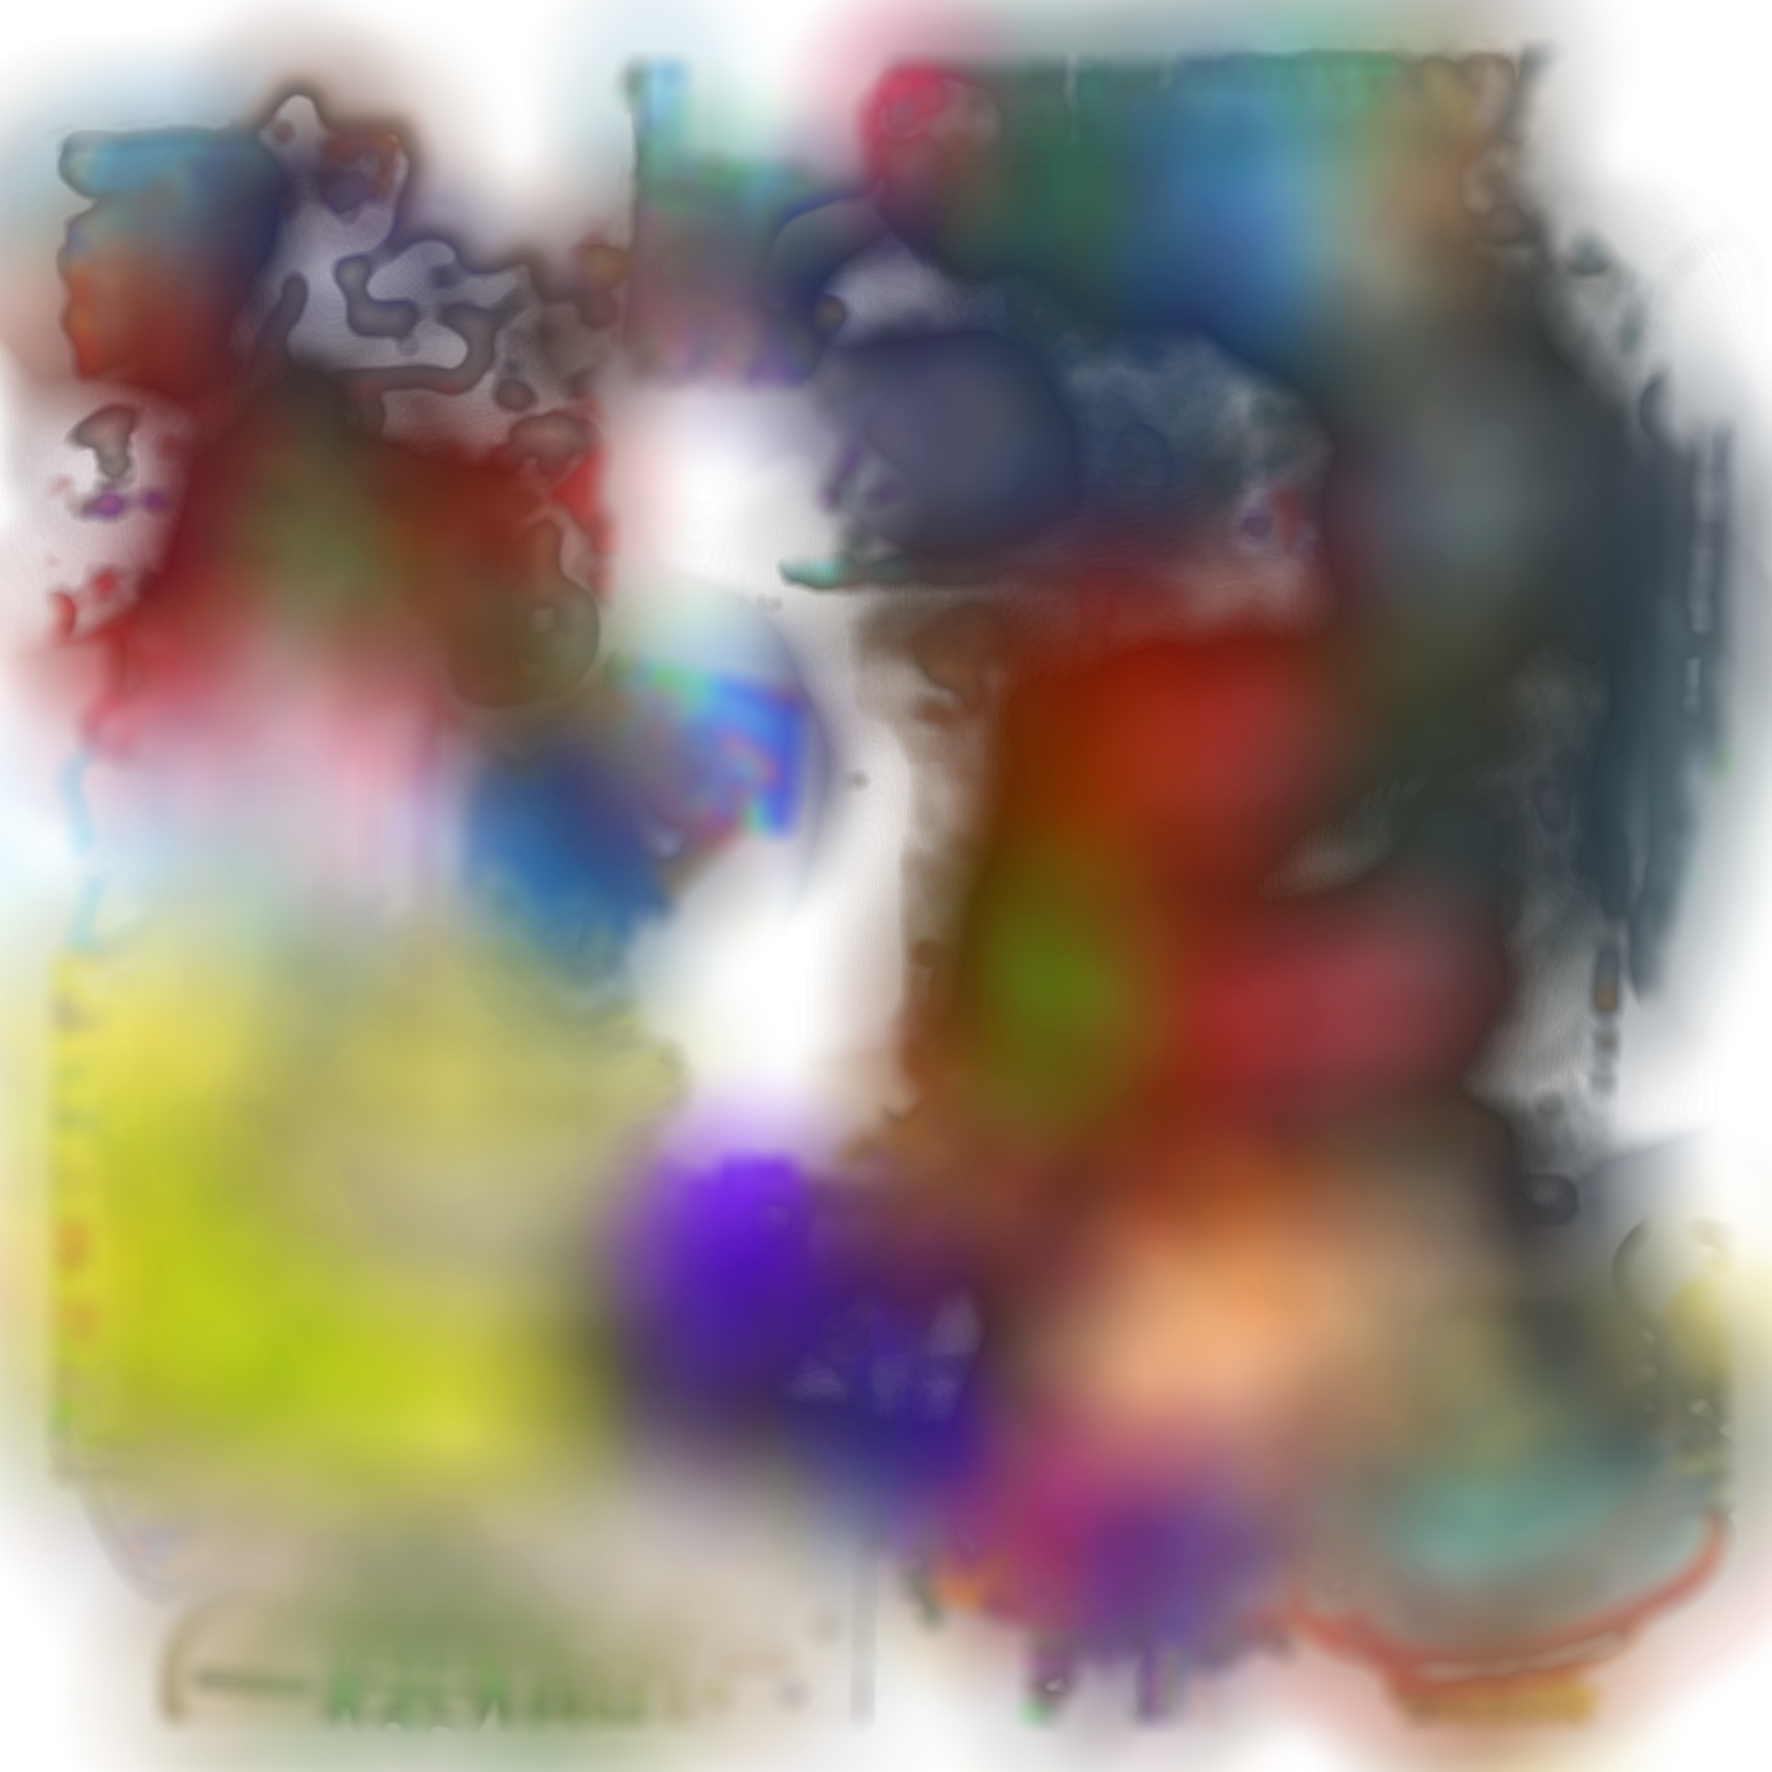
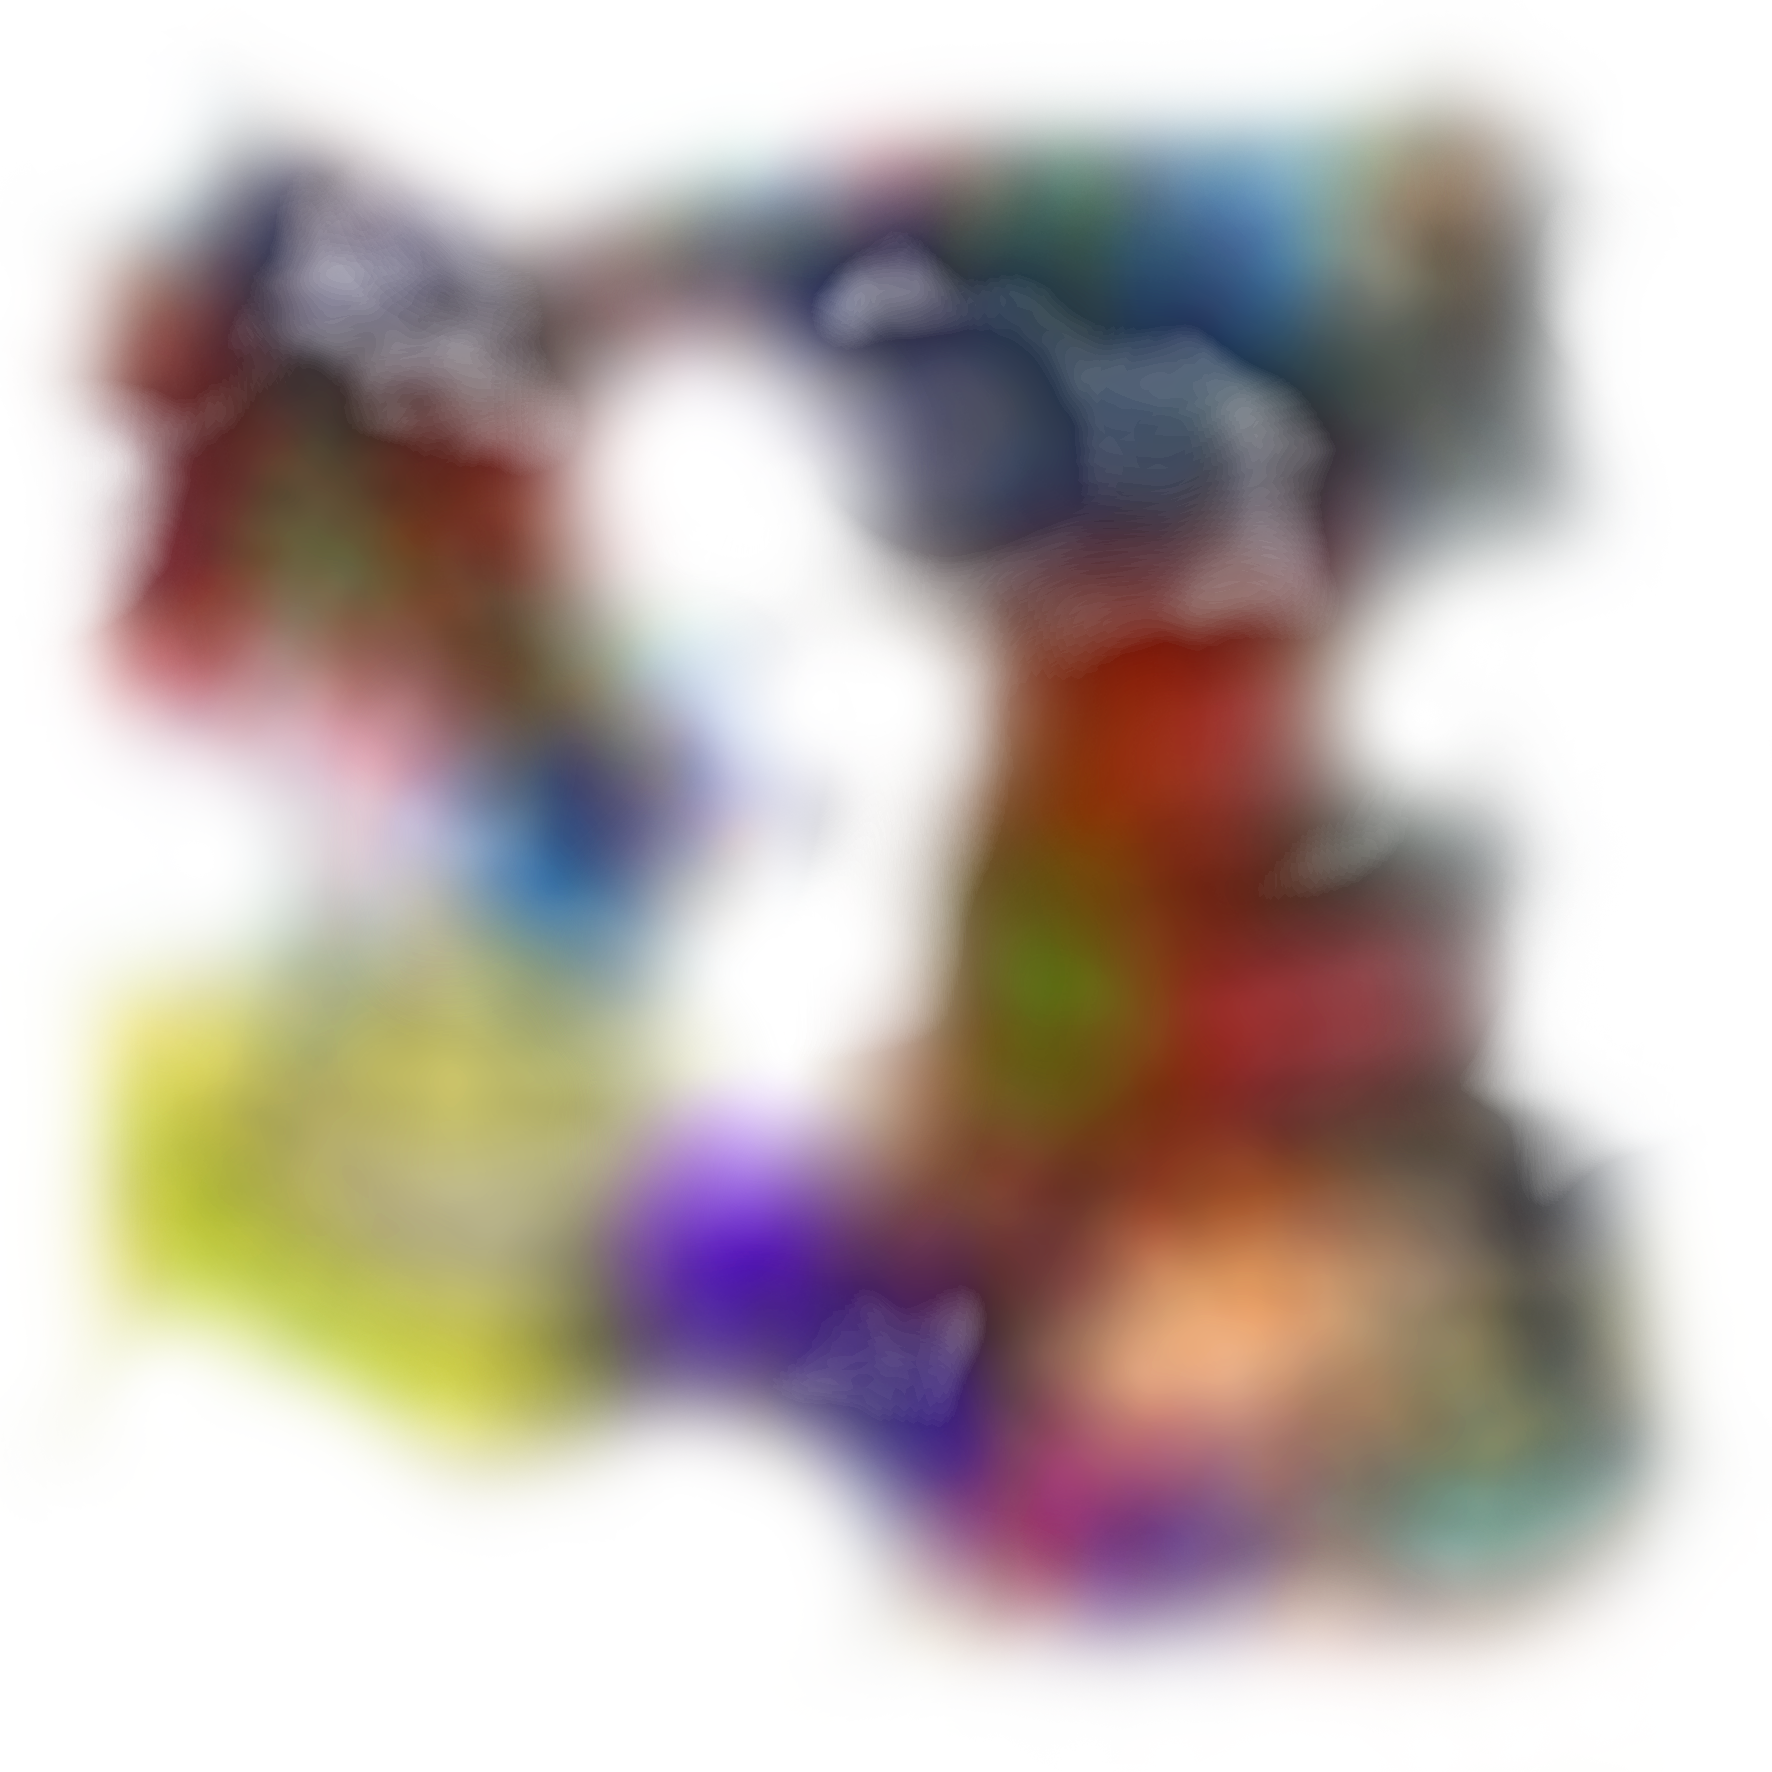
megla

diff --git a/src/strategies/painters/mist.js b/src/strategies/painters/mist.js
@@ -1,5 +1,6 @@
 import Utils from '~/utils';
 import fn from 'periodic-function';
+import * as PIXI from 'pixi.js';
 
 class MistPainter {
   constructor (sprite) {
@@ -8,19 +9,19 @@ class MistPainter {
 
     this.sprite = sprite;
 
-    this.sprite.alpha = Math.random() * 0.75;
+    this.sprite.width = this.surfaceWidth * 1.5;
+    this.sprite.height = this.surfaceHeight * 1.5;
 
-    this.sprite.width = this.surfaceWidth * 2;
-    this.sprite.height = this.surfaceHeight * 2;
+    this.sprite.x = Math.random() * this.surfaceWidth - sprite.width / 2;
+    this.sprite.y = Math.random() * this.surfaceHeight - sprite.height / 2;
 
     this.spriteData = {
       xChange: Math.random() * Utils.randomDirection() * 0.085,
       yChange: Math.random() * Utils.randomDirection() * 0.085,
-      alpha: Math.random() * 3,
+      alpha: Math.random() * 37,
       alphaChange: Math.random()
     };
-
-    this.sprite.zIndex = 1;
+    
   }
 
   updateSprite (delta) {
@@ -44,6 +45,7 @@ class MistPainter {
 
     this.spriteData.alpha += delta * 0.004 * this.spriteData.alphaChange;
     this.sprite.alpha = fn.triangle(this.spriteData.alpha * 0.1);
+
   }
 }
 

diff --git a/src/strategies/painters/background.js b/src/strategies/painters/background.js
@@ -20,15 +20,13 @@ class BackgroundPainter {
       xChange: Math.random() * Utils.randomDirection() * 0.085,
       yChange: Math.random() * Utils.randomDirection() * 0.085,
       alpha: Math.random() * 100,
-      alphaChange: Math.random(),
-      rotationSpeed: Math.random() * 0.00000002
+      alphaChange: Math.random()
     };
 
     this.sprite.zIndex = 1;
   }
 
   updateSprite (delta) {
-    this.sprite.rotation += delta * this.spriteData.rotationSpeed;
 
     if (this.sprite.x + delta * this.spriteData.xChange > this.surfaceWidth) {
       this.spriteData.xChange = -1 * this.spriteData.xChange;
@@ -48,8 +46,9 @@ class BackgroundPainter {
     this.sprite.y += delta * this.spriteData.yChange;
 
     this.spriteData.alpha += delta * 0.004 * this.spriteData.alphaChange;
-    this.sprite.alpha = fn.triangle(this.spriteData.alpha * 0.1);
+    this.sprite.alpha = fn.triangle(this.spriteData.alpha * 0.2);
   }
 }
 
-export { BackgroundPainter };
+export { 
+  BackgroundPainter };

diff --git a/src/strategies/painters/moving.js b/src/strategies/painters/moving.js
@@ -1,4 +1,5 @@
 import Utils from '~/utils';
+import * as PIXI from 'pixi.js';
 
 function randn_bm(min, max, skew) {
   var u = 0, v = 0;
@@ -20,7 +21,6 @@ class MovingSpritePainter {
     const i = randn_bm(100, 10000, 7)
     const ratio = i / sprite.width;
     this.sprite = sprite;
-    console.log("width:" + i)
 
     this.sprite.width = i
     this.sprite.height = sprite.height * ratio; 
@@ -88,6 +88,8 @@ class MovingSpritePainter {
 
     this.sprite.x += delta * this.spriteData.xChange;
     this.sprite.y += delta * this.spriteData.yChange;
+
+  
   }
 }
 

diff --git a/src/strategies/painters/gradient.js b/src/strategies/painters/gradient.js
@@ -1,3 +1,5 @@
+import * as PIXI from 'pixi.js';
+
 class GradientPainter {
     constructor (sprite) {
       this.sprite = sprite;
@@ -9,16 +11,19 @@ class GradientPainter {
 
       this.sprite.width = this.surfaceWidth;
       this.sprite.height = this.surfaceHeight;
-      
-      this.sprite.zIndex = 0;
-      console.log ('vtf')
+       
     }
 
-   updateSprite (delta) {
-    }
-  }
    
-  export {
+    updateSprite (delta) { 
+      
+     
+  }
+}
+
+ 
+  
+    export {
     GradientPainter
   };
 
